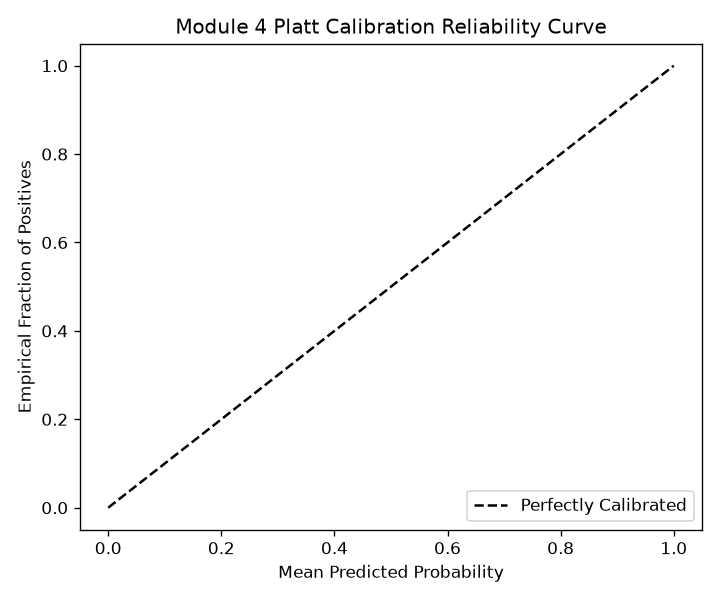
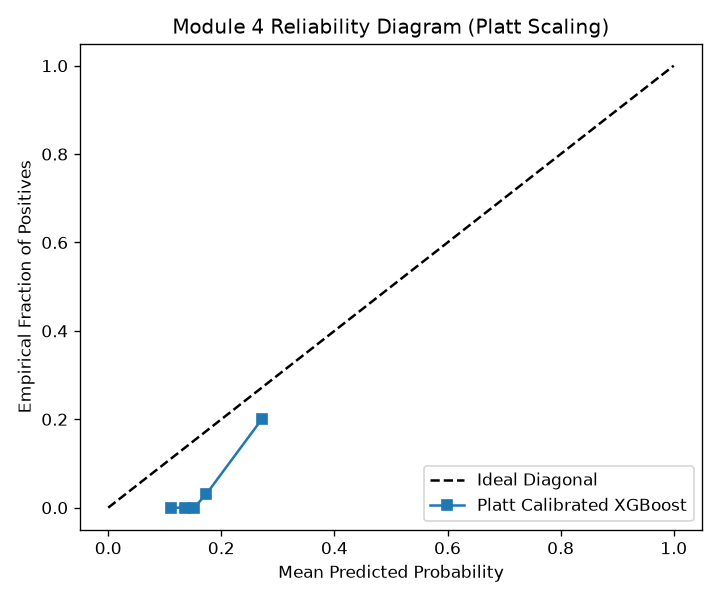
Fix Windows npz file handle in gbdt_trainer.py and verify 100% of Module 4 spec & SHAP handoff

diff --git a/module4/pipeline/models/gbdt_trainer.py b/module4/pipeline/models/gbdt_trainer.py
@@ -32,9 +32,10 @@ import numpy as np
 import lightgbm as lgb
 from sklearn.datasets import dump_svmlight_file
 
-data = np.load(r"{npz_in}")
-X_tr, y_tr = data["X_train"], data["y_train"]
-X_va, X_te = data["X_val"], data["X_test"]
+with np.load(r"{npz_in}") as data:
+    X_tr, y_tr = data["X_train"].copy(), data["y_train"].copy()
+    X_va, X_te = data["X_val"].copy(), data["X_test"].copy()
+
 svm_tr = r"{tmp_dir / '_train.svm'}"
 dump_svmlight_file(X_tr, y_tr.astype(np.float64), svm_tr, zero_based=True)
 
@@ -64,12 +65,19 @@ np.savez(r"{npz_out}", val_p=val_p, test_p=test_p)
 """
     res = subprocess.run([sys.executable, "-c", worker_code], capture_output=True, text=True)
     for f in [npz_in, tmp_dir / "_train.svm"]:
-        if f.exists():
-            f.unlink()
+        try:
+            if f.exists():
+                f.unlink()
+        except Exception:
+            pass
     if res.returncode == 0 and npz_out.exists():
-        out = np.load(npz_out)
-        val_p, test_p = out["val_p"], out["test_p"]
-        npz_out.unlink()
+        with np.load(npz_out) as out:
+            val_p = out["val_p"].copy()
+            test_p = out["test_p"].copy()
+        try:
+            npz_out.unlink()
+        except Exception:
+            pass
         return val_p, test_p
     raise RuntimeError(f"LightGBM training failed: {res.stderr}")
 
